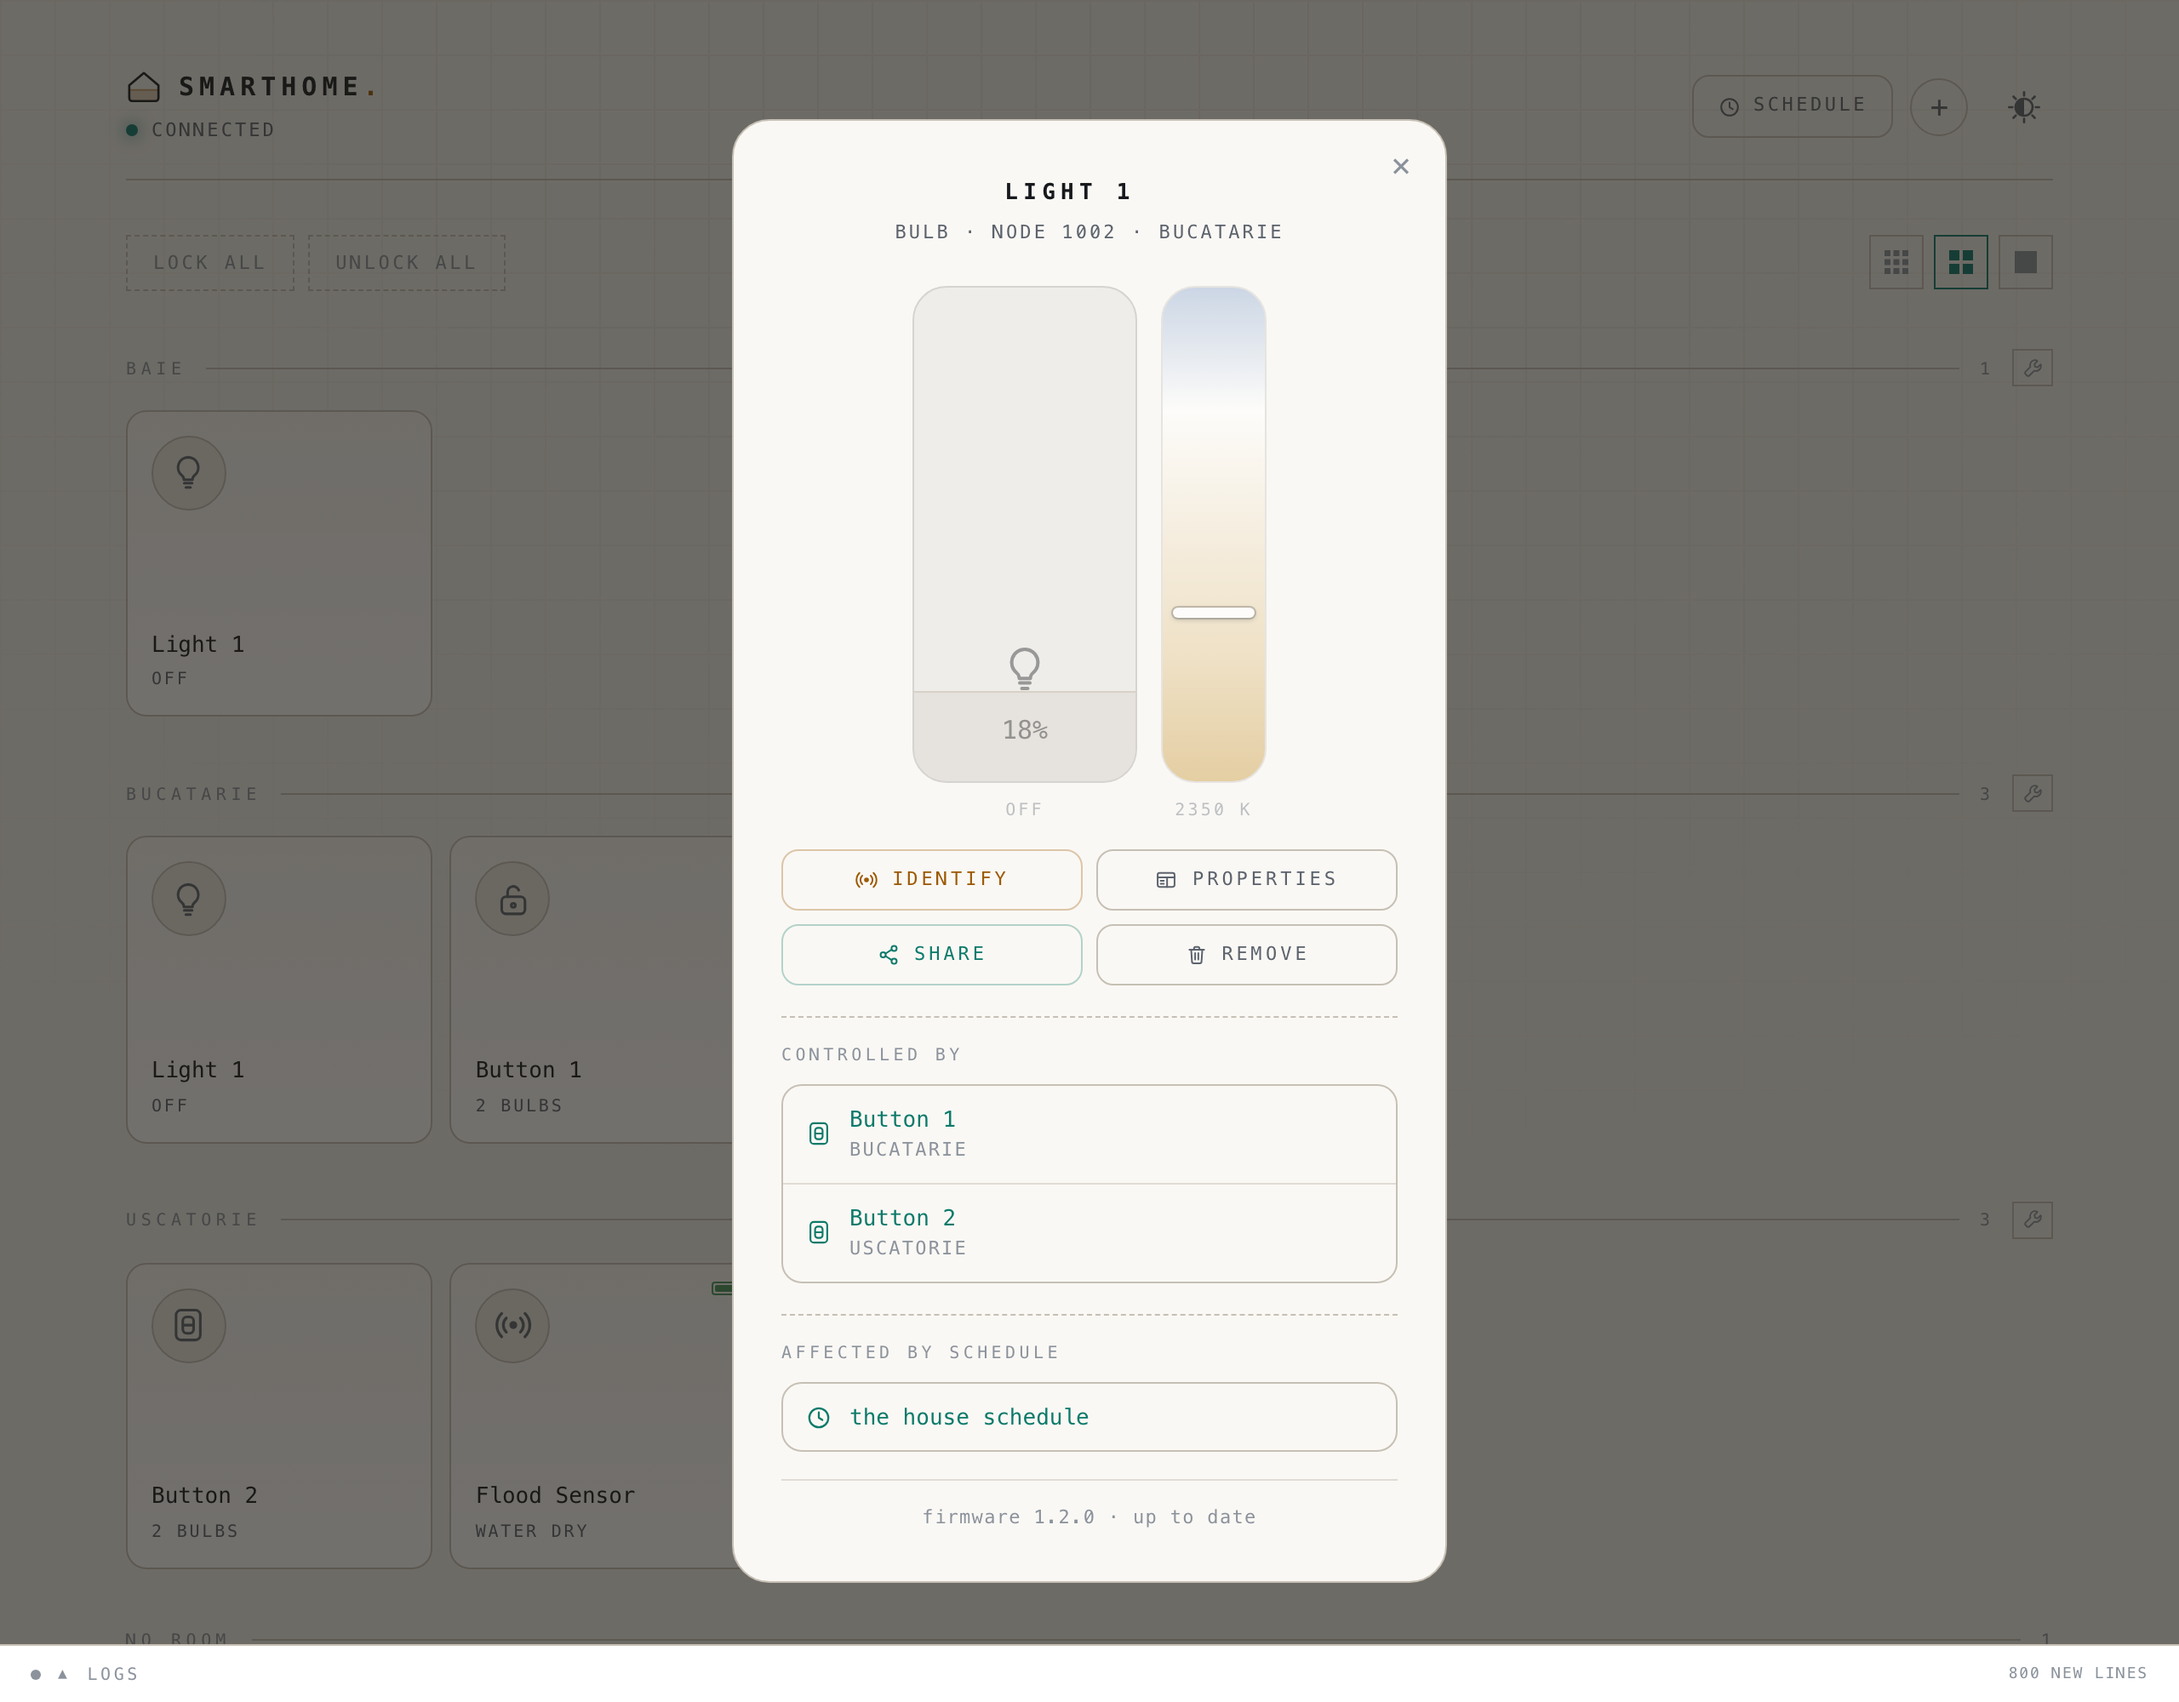
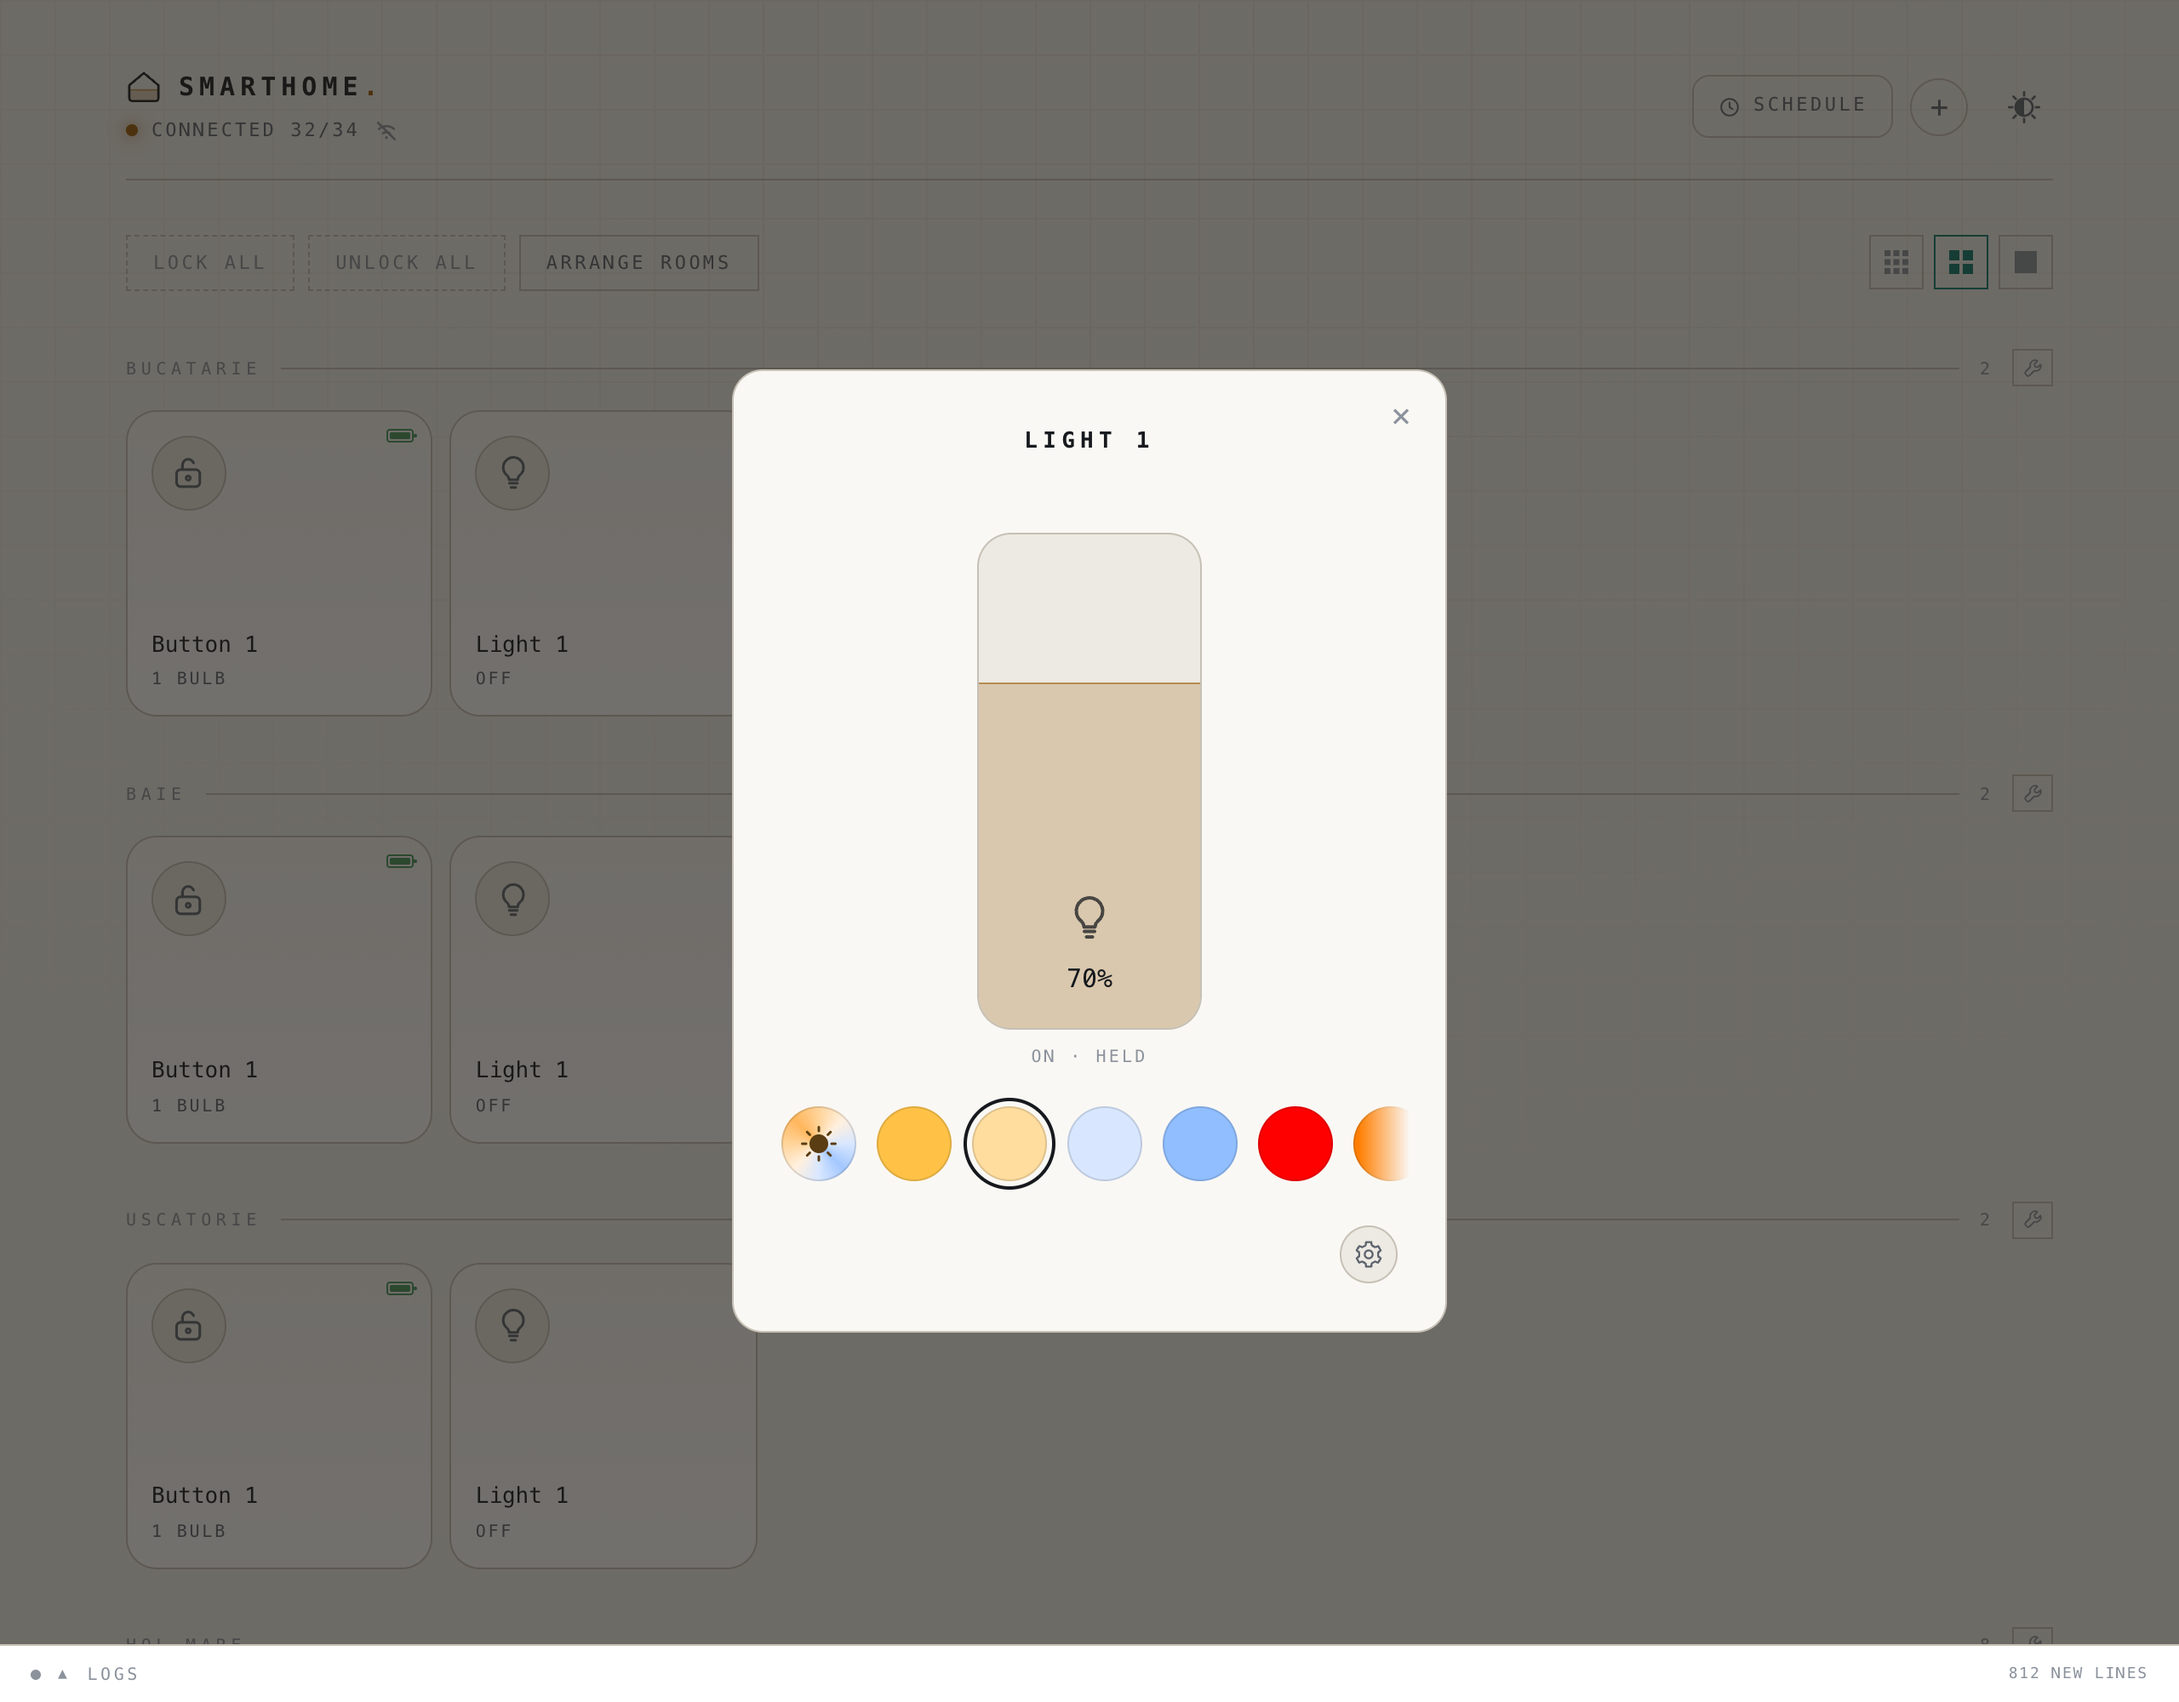
README: new screenshots, and the parts that had fallen behind
Every picture retaken, plus the lamp's settings, a light show and a webhook.
The switch reports its presses now, the hub is not a Pi, OTA and a press
through the binding are verified, and the licence counts are current.

diff --git a/README.md b/README.md
@@ -15,10 +15,18 @@ way Apple Home does: the tile grows into its page and shrinks back into its own
 gap when you close it. The page is the device and nothing else. For a lamp that
 is its brightness and a row of colours: **adaptive** first, which follows the
 schedule, then a few whites, the colours if the lamp has them, and last a picker
-for anything else. Identifying it, sharing it, its firmware and removing it are
-one tap away, behind the gear. The settings and the picker come up from the
-bottom as a sheet over the card, which sinks back behind them; drag the sheet
-down, or throw it, and it goes. A battery gauge and a small cloud appear in a tile's corner when they apply: one
+for anything else. Its name and room, what drives it, the schedule it follows,
+identifying it, sharing it, its firmware and removing it are one tap away,
+behind the gear. The settings and the picker come up from the bottom as a sheet
+over the card, which sinks back behind them; drag the sheet down, or throw it,
+and it goes.
+
+<p>
+  <img src="docs/images/bulb.png" width="49%" alt="A lamp: its brightness, and its colours as a row of presets">
+  <img src="docs/images/bulb-settings.png" width="49%" alt="The lamp's settings, a sheet over the card: name, room, what drives it, its schedule, its firmware">
+</p>
+
+A battery gauge and a small cloud appear in a tile's corner when they apply: one
 for the devices that run on a cell, one when firmware is waiting. A red crossed
 signal takes that corner when a device has stopped answering — the last reading
 stays on the tile, so you can see what its battery was on the way out.
@@ -30,12 +38,16 @@ count and the mark together — and the page is only the devices wearing it.
 **Brightness and colour follow the time of day.** The curve is yours to edit:
 drag a point, then save it for the whole house or for one lamp.
 
+![The schedule editor: brightness and colour temperature across the day](docs/images/schedule.png)
+
 **Lamps can play a light show.** A show is a group of lamps with a row of
 presets — candy cane, twinkle, candle, wave, breathe, rainbow — and it behaves
 like a lamp: its tile switches it on and off, its panel is a brightness, and a
 wall switch or a webhook can start it. Colour lamps play the colours; white
 ones play the same rhythm in warm and cool white. When it stops, every lamp goes
 back to exactly what it was doing.
+
+![A light show: a brightness, and a row of presets - candy cane, twinkle, candle, wave, breathe, rainbow](docs/images/show.png)
 
 **A camera can make a lamp answer.** A webhook is a tile like any other. Its
 page is its address — marked POST, with a copy button — and a **test** button
@@ -44,6 +56,8 @@ name, a room, what it does, for how long, to what and to which lamps, saved as
 you change them. POST to it — a camera that has seen movement, most likely —
 and those lamps do what it says for as long as it says, then go back to exactly
 what they were.
+
+![A webhook: its address, marked POST, with a copy button and a test](docs/images/webhook.png)
 
 Not off, because at the hour this matters a lamp is usually already on and
 dimmed, and a deterrent that ends with the room dark has made the house look
@@ -80,13 +94,6 @@ It is shaped like a bought remote, deliberately — a thing that is pressed from
 outside, whose targets live in `devices.json` because there is nowhere in the
 device to put them, and which the hub acts on. Same storage, same bulb picker,
 same bargain: it does nothing while the hub is down.
-
-![The schedule editor: brightness and colour temperature across the day](docs/images/schedule.png)
-
-**Every device says what it is part of.** A bulb shows which switches drive it,
-which schedule it follows, and what firmware it is on.
-
-![A bulb: brightness, colour, who controls it, what schedule it follows](docs/images/bulb.png)
 
 **Switches are wired to bulbs here.** Tick what each one drives; the panel
 writes the binding table and the ACLs that go with it.
@@ -133,9 +140,9 @@ commands over BLE at all — for them it is only a commissioning transport.
 | | Where | What it does |
 |---|---|---|
 | the switch | on the wall, CR2032 | sends `Toggle` (and full brightness on a long press) straight to its bound bulbs |
-| border router | Pi + nRF52840 dongle | the bridge to Thread |
-| [matter-server](https://github.com/home-assistant-libs/python-matter-server) | Pi | the Matter client: commands, subscriptions, commissioning |
-| [the panel](panel/) | Pi | the interface, the schedule, bindings, ACLs, rooms |
+| border router | the hub + nRF52840 dongle | the bridge to Thread |
+| [matter-server](https://github.com/home-assistant-libs/python-matter-server) | the hub | the Matter client: commands, subscriptions, commissioning |
+| [the panel](panel/) | the hub | the interface, the schedule, bindings, ACLs, rooms, light shows, webhooks |
 
 The panel speaks Matter through python-matter-server. Despite the package name
 nothing here involves Home Assistant — it is a daemon with a WebSocket API.
@@ -146,7 +153,7 @@ poll that is answered the instant something moves. So a wall-switch press — wh
 the hub is not part of — shows up on screen in about 0.2 s. Reads are free, served
 from matter-server's cache rather than by waking a sleeping device.
 
-Idle, on a Pi 3 B+: matter-server 0.2% CPU / 153 MB, the panel 0.4% / 34 MB.
+Idle, measured on a Pi 3 B+: matter-server 0.2% CPU / 153 MB, the panel 0.4% / 34 MB.
 
 Firmware updates go the same way: matter-server serves the image, the panel
 starts each one and watches it land — see [`ota/`](ota/).
@@ -243,17 +250,13 @@ In Matter terms a lock switch writes an attribute on endpoint 2 of the others, s
 its targets need an ACL entry with Manage privilege. The panel writes it when you
 save a lock's bindings.
 
-### The switch shows no actions in Apple Home
+### The switch reports its presses
 
-On purpose. The firmware has no `Switch` cluster (0x003B), so it exposes no press
-events and there is nothing to automate on top of it. It drives the bulb directly
-through the binding, and that is all — which is why it works with the HomePod
-unplugged. The bulbs behave normally in Apple Home; only the switch is not a
-source of automations there.
-
-If you want the opposite (single/double/long press as triggers), add a Generic
-Switch endpoint (device type 0x000F). That changes the endpoint composition, so
-it has to be done before the first commissioning.
+Besides driving its bulbs through the binding, the switch carries a Generic
+Switch endpoint (4) with the Switch cluster, so every press is also reported.
+The hub listens: a long press holds the light against the schedule, and a
+button can start a light show. None of that is in the command path — the bulbs
+still get their `Toggle` straight from the switch, with the hub off.
 
 ## Hardware
 
@@ -374,19 +377,19 @@ fabric; they are worth changing if you are handing the firmware to anyone else.
 
 - **Hardware testing is partial.** Verified on the board: the LED channels and
   colours, the accelerometer power-down, the switch booting into a fabric and
-  signalling with the LED, lock/unlock through the custom cluster, and the hub
-  writing `OnLevel` + colour temperature with `Toggle` then lighting the bulb at
-  exactly those values. Not verified: a physical press reaching a bulb through the
-  binding, the periodic startup-state writes, the accelerometer gestures.
-- **Endpoint 2 in Apple Home.** It carries a device type no ecosystem knows, so it
-  should be ignored, but this has not been seen on a real phone. If it does show
-  up, move the lock attributes to endpoint 1 (requires regenerating app-common,
-  see `docs/zap.md`).
+  signalling with the LED, a press reaching its bulbs through the binding,
+  lock/unlock through the custom cluster and a lock reaching every switch,
+  firmware updates over the air from the panel, and the hub writing `OnLevel` +
+  colour temperature with `Toggle` then lighting the bulb at exactly those
+  values. Not verified: the periodic startup-state writes, the accelerometer
+  gestures.
+- **Endpoints 2 and 4 in Apple Home.** Endpoint 2 carries a device type no
+  ecosystem knows, so it should be ignored; endpoint 4 is a Generic Switch, so
+  its presses may be offered as automation triggers. Neither has been looked at
+  on a real phone. If endpoint 2 does show up, move the lock attributes to
+  endpoint 1 (requires regenerating app-common, see `docs/zap.md`).
 - **`scripts/commission.sh`** was written from documentation. Devices have been
   commissioned, but from the panel.
-- **The OTA flow.** The firmware side is verified — partition map, signed image,
-  generated `matter.ota`; the host side needs hardware and a Thread network. See
-  [`ota/README.md`](ota/README.md).
 
 ## Where the detail lives
 
@@ -421,9 +424,9 @@ substance:
 
 | | lines | licence |
 |---|---|---|
-| `light_ctrl`, `automation`, `status_led`, `lock_cluster`, `lock_state` | 1691 | Apache-2.0 (ours) |
+| `light_ctrl`, `automation`, `status_led`, `battery`, `switch_cluster`, `lock_cluster`, `lock_state` | 2590 | Apache-2.0 (ours) |
 | `light_switch.matter` — the data model | 2198 | Apache-2.0 (ours) |
-| `main.cpp`, `app_task.{h,cpp}`, `chip_project_config.h` | 367 | Nordic 5-Clause |
+| `main.cpp`, `app_task.{h,cpp}`, `chip_project_config.h` | 406 | Nordic 5-Clause |
 | build config: `CMakeLists.txt`, `Kconfig*`, `prj.conf`, `sysbuild.conf` | — | Nordic 5-Clause |
 
 The logic uses **no Nordic-specific API at all** — no `nrfx_`, no `nrf_`, no
@@ -432,7 +435,7 @@ The logic uses **no Nordic-specific API at all** — no `nrfx_`, no `nrf_`, no
 
 So the Nordic-licensed part is precisely what a port throws away anyway: an
 ESP-IDF Matter application brings its own entry point, task skeleton and build
-system. Take the 3889 lines above, write your own shell around them, and nothing
+system. Take the 4788 lines above, write your own shell around them, and nothing
 you ship is touched by clause 4.
 
 ### Third-party components
